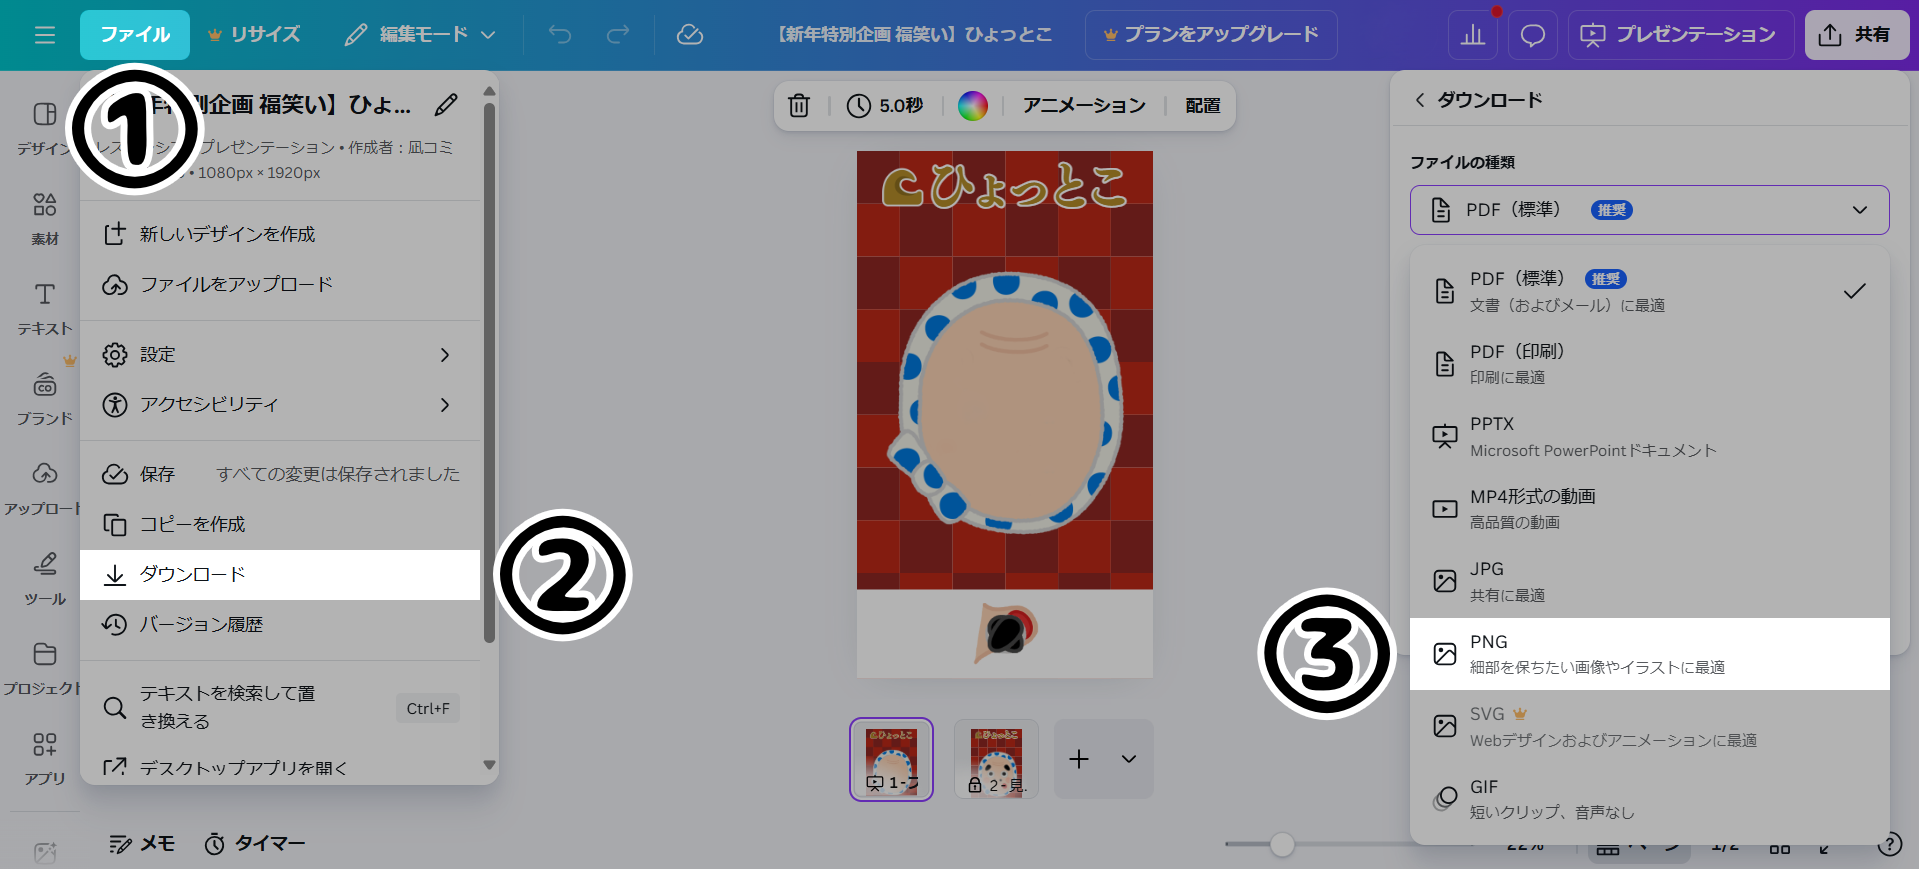
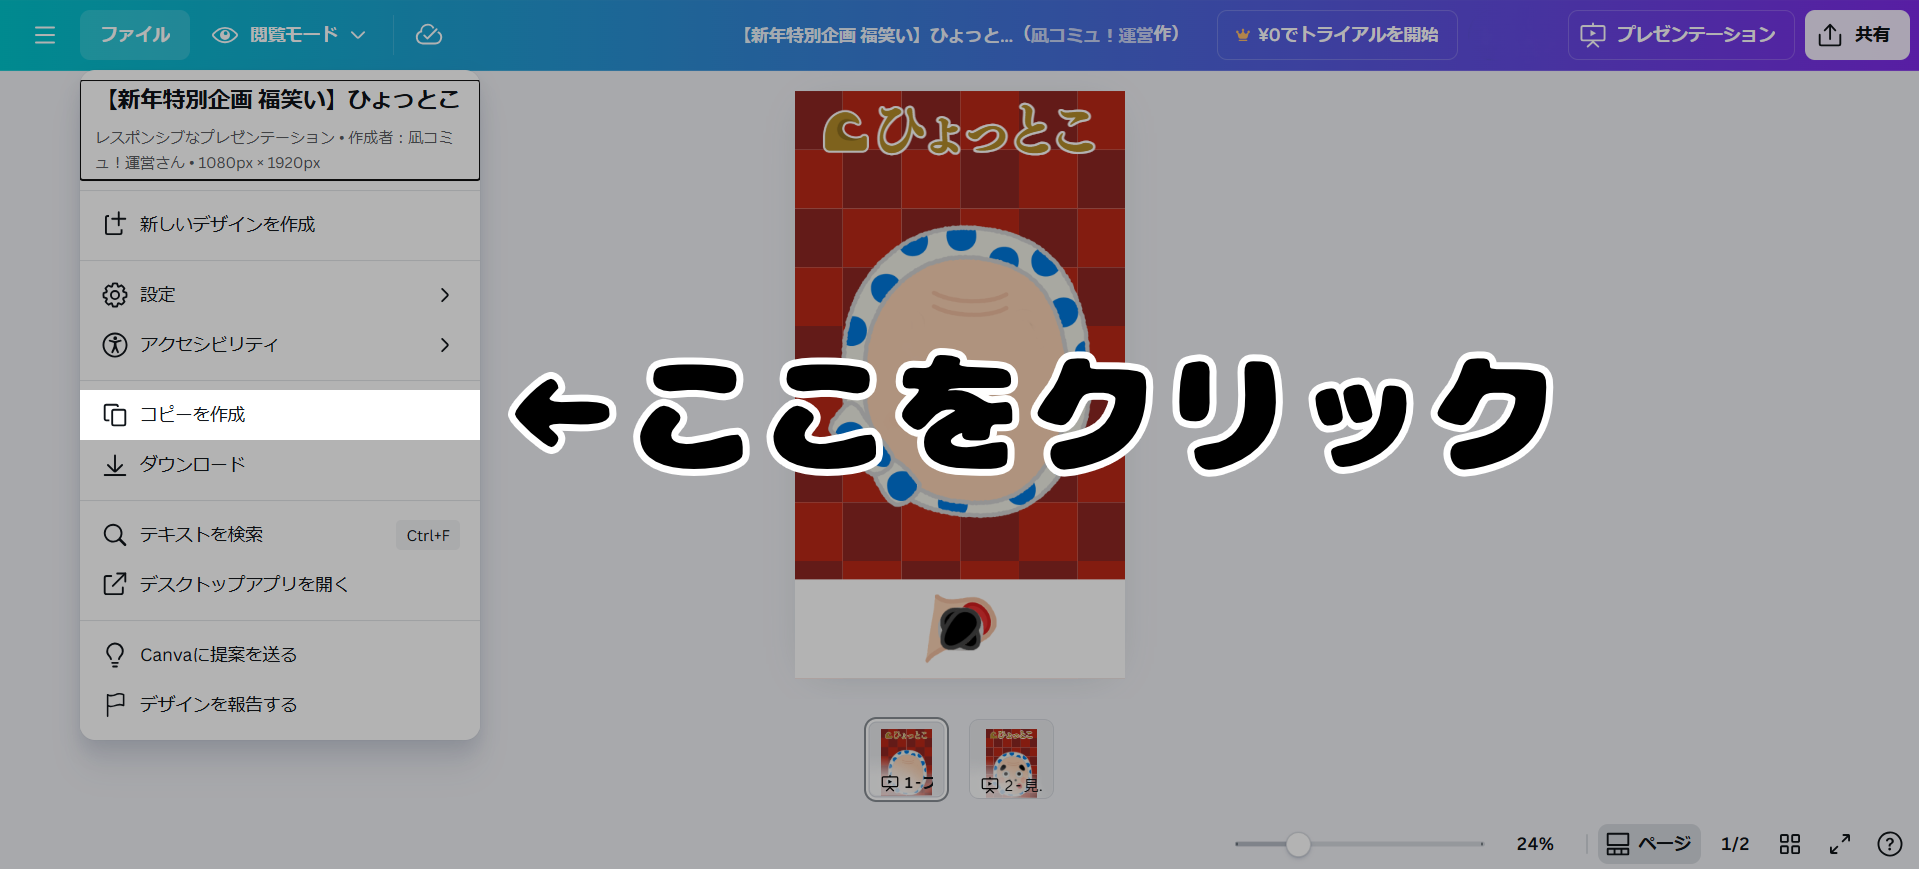
feat: 【特別企画】ステップ追加

diff --git a/special/index.html b/special/index.html
@@ -127,9 +127,8 @@
 
                             <div class="step-body">
                                 <p>Canvaテンプレートをコピーする。</p>
-                                <p>コピーしたデザインで福笑いを楽しみ、結果をPNG形式にて出力しよう。</p>
 
-                                <img src="./../src/images/special/steps/step2.png" alt="Canvaテンプレートをコピーする。コピーしたデザインで福笑いを楽しみ、結果をPNG形式にて出力しよう。">
+                                <img src="./../src/images/special/steps/step2.png" alt="Canvaテンプレートをコピーする。">
                             </div>
                         </div>
 
@@ -137,9 +136,9 @@
                             <span class="step-no">3</span>
 
                             <div class="step-body">
-                                <p><a href="https://forms.gle/XasxtWjpRedPzA3x8" target="_blank">受付フォーム</a>へ送る。</p>
+                                <p>コピーしたデザインで福笑いを楽しみ、結果をPNG形式にて出力しよう。</p>
 
-                                <img src="./../src/images/special/steps/step3.png" alt="受付フォームへ送る。">
+                                <img src="./../src/images/special/steps/step3.png" alt="コピーしたデザインで福笑いを楽しみ、結果をPNG形式にて出力しよう。">
                             </div>
                         </div>
 
@@ -147,9 +146,19 @@
                             <span class="step-no">4</span>
 
                             <div class="step-body">
+                                <p><a href="https://forms.gle/XasxtWjpRedPzA3x8" target="_blank">受付フォーム</a>へ送る。</p>
+
+                                <img src="./../src/images/special/steps/step4.png" alt="受付フォームへ送る。">
+                            </div>
+                        </div>
+
+                        <div class="step">
+                            <span class="step-no">5</span>
+
+                            <div class="step-body">
                                 <p>2026年1月16日(金) 21:00より行われる、凪コミュ！ 第4回にて公開！</p>
 
-                                <img src="./../src/images/special/steps/step4.png" alt="2026年1月16日(金) 21:00より行われる、凪コミュ！ 第4回にて公開！">
+                                <img src="./../src/images/special/steps/step5.png" alt="2026年1月16日(金) 21:00より行われる、凪コミュ！ 第4回にて公開！">
                             </div>
                         </div>
                     </div>
